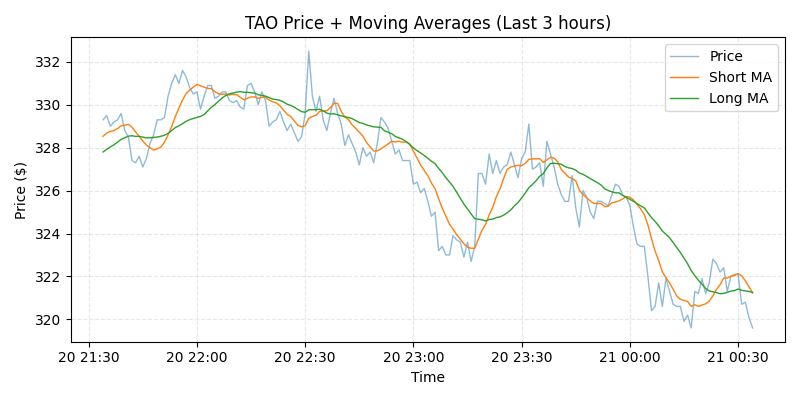
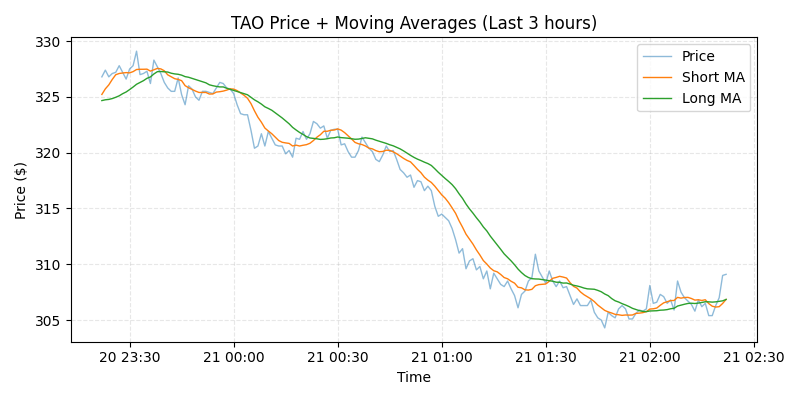
update active user

diff --git a/bot/telegram.py b/bot/telegram.py
@@ -3,6 +3,7 @@
 import os
 import requests
 import dotenv
+from bot.user_preferences import get_all_active_users
 
 dotenv.load_dotenv()
 
@@ -18,16 +19,6 @@ def get_api_url():
     if not token:
         return None
     return f"https://api.telegram.org/bot{token}"
-
-
-def load_chat_ids():
-    """Load Telegram chat IDs from environment variable."""
-    ids = os.getenv("TELEGRAM_CHAT_ID", "")
-    if not ids:
-        return []
-    
-    # Split by comma, trim whitespace
-    return [chat_id.strip() for chat_id in ids.split(",") if chat_id.strip()]
 
 
 def send_message_to_chat(chat_id: str, message: str):
@@ -71,14 +62,14 @@ def send_photo_to_chat(chat_id: str, photo_path: str):
 
 def send_broadcast_message(message: str):
     """Send a message to all configured chat IDs."""
-    chat_ids = load_chat_ids()
+    chat_ids = get_all_active_users()
     for chat_id in chat_ids:
         send_message_to_chat(chat_id, message)
 
 
 def send_broadcast_photo(photo_path: str):
     """Send a photo to all configured chat IDs."""
-    chat_ids = load_chat_ids()
+    chat_ids = get_all_active_users()
     for chat_id in chat_ids:
         send_photo_to_chat(chat_id, photo_path)
 

diff --git a/bot/__init__.py b/bot/__init__.py
@@ -5,15 +5,15 @@ from bot.telegram import (
     send_photo_to_chat,
     send_broadcast_message,
     send_broadcast_photo,
-    get_updates,
-    load_chat_ids
+    get_updates
 )
 from bot.commands import handle_command
 from bot.graph_generator import generate_backtest_graph, generate_signal_plot
 from bot.user_preferences import (
     get_user_coin,
     set_user_coin,
-    get_all_users_for_coin
+    get_all_users_for_coin,
+    get_all_active_users
 )
 
 __all__ = [
@@ -22,12 +22,12 @@ __all__ = [
     'send_broadcast_message',
     'send_broadcast_photo',
     'get_updates',
-    'load_chat_ids',
     'handle_command',
     'generate_backtest_graph',
     'generate_signal_plot',
     'get_user_coin',
     'set_user_coin',
     'get_all_users_for_coin',
+    'get_all_active_users'
 ]
 

diff --git a/bot/user_preferences.py b/bot/user_preferences.py
@@ -70,8 +70,23 @@ def is_user_active(chat_id: str):
 def get_all_active_users():
     """Get all chat IDs of active users."""
     preferences = load_preferences()
-    return [
+    users = [
         chat_id for chat_id, prefs in preferences.items()
         if prefs.get('active', False)
     ]
 
+    valid_ids = load_valid_chat_ids()
+
+    users = [user for user in users if user in valid_ids]
+
+    return users
+
+
+def load_valid_chat_ids():
+    """Load Telegram chat IDs from environment variable."""
+    ids = os.getenv("TELEGRAM_CHAT_ID", "")
+    if not ids:
+        return []
+    
+    # Split by comma, trim whitespace
+    return [chat_id.strip() for chat_id in ids.split(",") if chat_id.strip()]

diff --git a/modules/recorder/data_manager.py b/modules/recorder/data_manager.py
@@ -75,7 +75,7 @@ class DataManager:
             combined_df['timestamp'] = pd.to_datetime(combined_df['timestamp'])
             combined_df['price'] = pd.to_numeric(combined_df['price'], errors='coerce').round(2)
             
-            combined_df = combined_df.dropna(subset=['price'])
+            combined_df = combined_df.dropna(subset=['timestamp', 'price'])
             
             if deduplicate:
                 combined_df = combined_df.sort_values('timestamp').drop_duplicates(subset=['timestamp'], keep='last')
